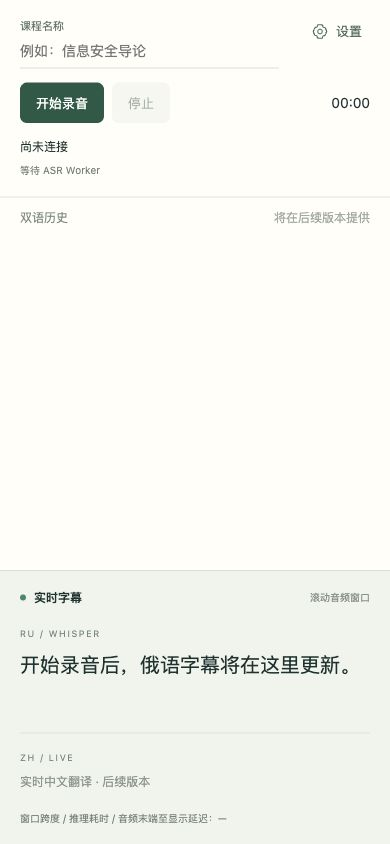
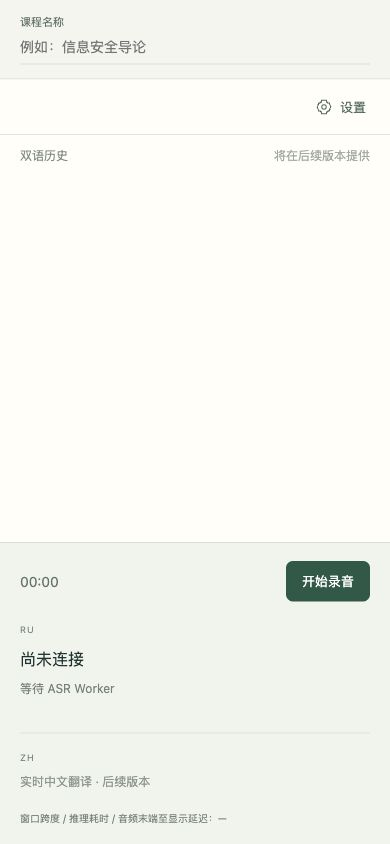
feat: simplify recording toolbar and connection placeholders

diff --git a/apps/web/app.js b/apps/web/app.js
@@ -5,7 +5,9 @@ let sent = [], stopTimer, startTimer, flushResolve;
 $('settings-open').onclick = () => $('settings').showModal();
 const errors = {WORKER_OFFLINE:'ASR Worker 未上线，请启动 Worker 后重试。',WORKER_DISCONNECTED:'ASR Worker 已断开，录音已停止，本次缺失音频不能续传。',AUDIO_DISCONTINUITY:'检测到音频采样缺口，录音已停止，请重新开始。',SESSION_BUSY:'已有课堂正在录音，请先结束当前会话。',INFERENCE_FAILED:'Whisper 推理失败，录音已停止。',WORKER_UNAVAILABLE_OR_SLOW:'Worker 不可用或处理积压，录音已停止。'};
 function send(type, payload = {}) { ws.send(JSON.stringify({protocol_version:'0.1',type,session_id:type === 'auth' ? '' : sessionId || '',message_id:crypto.randomUUID(),payload})); }
-function controls(active) { $('start').disabled = active; $('stop').disabled = !running || stopping; $('token').disabled = active; }
+function controls(active) { $('record').textContent = stopping ? '正在停止…' : running ? '停止录音' : active ? '连接中…' : '开始录音'; $('record').disabled = stopping || (active && !running); $('token').disabled = active; }
+function setConnected(online) { $('connection-state').hidden = online; $('ru').hidden = !online; }
+function updateWorker(online, worker = {}) { const label = online ? workerLabel(worker) : '等待 ASR Worker'; $('worker').textContent = label; $('worker-detail').textContent = label; setConnected(online); }
 async function cleanup() {
   running = false; clearTimeout(stopTimer); clearTimeout(startTimer); stream?.getTracks().forEach(t => t.stop());
   capture?.disconnect(); source?.disconnect();
@@ -14,15 +16,15 @@ async function cleanup() {
 }
 async function fail(message) {
   $('error').textContent = message; $('status').textContent = '已停止 · 发生错误';
-  await cleanup(); stopping = false; controls(false); ws?.close();
+  await cleanup(); stopping = false; updateWorker(false); controls(false); ws?.close();
 }
 function workerLabel(p) { return `${p.model || '未知模型'} · ${p.os || '未知系统'} · 后端：${p.backend || '未验证'}`; }
-$('start').onclick = async () => {
+async function startRecording() {
   if (!window.isSecureContext || !navigator.mediaDevices?.getUserMedia || !window.AudioWorkletNode) { await fail('录音需要 HTTPS（或 localhost）以及支持 AudioWorklet 的浏览器。'); return; }
   if (!$('token').value) { $('error').textContent = '请在设置中输入网关访问令牌。'; $('settings').showModal(); return; }
   controls(true); $('error').textContent = ''; $('status').textContent = '请求麦克风权限…';
   sessionId = crypto.randomUUID(); seq = 0; samples = 0; sent = []; stopping = false;
-  $('duration').textContent = '00:00'; $('ru').textContent = '等待俄语音频…'; $('latency').textContent = '等待第一条识别结果…';
+  $('duration').textContent = '00:00'; $('ru').textContent = '开始录音后，俄语字幕将在这里更新。'; $('latency').textContent = '等待第一条识别结果…';
   try {
     // Resume inside the user gesture before waiting for network events (Safari requirement).
     context = new AudioContext(); await context.resume();
@@ -37,10 +39,10 @@ $('start').onclick = async () => {
       try {
         const m = JSON.parse(data);
         if (m.protocol_version !== '0.1') throw new Error('协议版本不匹配');
-        if (m.type === 'auth.ok') { $('worker').textContent = m.payload.worker_online ? workerLabel(m.payload.worker) : '等待 ASR Worker'; send('session.start', {lesson_name:$('lesson').value}); }
+        if (m.type === 'auth.ok') { updateWorker(m.payload.worker_online, m.payload.worker); send('session.start', {lesson_name:$('lesson').value}); }
         else if (m.type === 'session.ready' && m.session_id === sessionId) {
           clearTimeout(startTimer);
-          $('worker').textContent = workerLabel(m.payload.worker);
+          updateWorker(true, m.payload.worker);
           const track = stream.getAudioTracks()[0];
           if(!track || track.readyState !== 'live') throw new Error('麦克风已中断，请重新开始。');
           source = context.createMediaStreamSource(stream); capture = new AudioWorkletNode(context, 'ru-capture');
@@ -63,16 +65,16 @@ $('start').onclick = async () => {
           const displayMs = anchor ? performance.now() - anchor.at : null;
           $('latency').textContent = `窗口 ${((m.payload.window_end_sample-m.payload.window_start_sample)/16000).toFixed(1)} s · 推理 ${m.payload.inference_ms.toFixed(0)} ms · 音频末端至显示 ${displayMs === null ? '—' : displayMs.toFixed(0)+' ms'}`;
         } else if(m.type === 'session.stopped' && m.session_id === sessionId) {
-          await cleanup(); stopping = false; $('status').textContent = '已停止 · 尾部识别完成'; controls(false); ws.close();
+          await cleanup(); stopping = false; $('status').textContent = '已停止 · 尾部识别完成'; updateWorker(false); controls(false); ws.close();
         } else if(m.type === 'session.error') await fail(errors[m.payload.code] || `服务错误：${m.payload.code}`);
-        else if(m.type === 'connection.status') $('worker').textContent = m.payload.worker_online ? workerLabel(m.payload.worker) : 'ASR Worker 离线';
+        else if(m.type === 'connection.status') updateWorker(m.payload.worker_online, m.payload.worker);
       } catch(e) { await fail(e.message || '无法处理服务端消息'); }
     };
     ws.onclose = event => { if(ws === socket && (running || stopping || context)) void fail(event.code === 1008 ? '认证失败，请检查访问令牌。' : '网关连接已断开，录音已停止。v0.1 不支持断网续传。'); };
     ws.onerror = () => { if(ws === socket) void fail('无法连接网关，请检查网络与 HTTPS/WSS 配置。'); };
   } catch(e) { await fail(e.name === 'NotAllowedError' ? '麦克风权限被拒绝，请在浏览器设置中允许访问后重试。' : `无法开始录音：${e.message}`); }
-};
-$('stop').onclick = async () => {
+}
+async function stopRecording() {
   if(!running || stopping) return;
   stopping = true; controls(true); $('status').textContent = '正在停止并识别尾部…';
   try {
@@ -80,5 +82,9 @@ $('stop').onclick = async () => {
     await cleanup(); send('session.stop');
     stopTimer = setTimeout(() => void fail('尾部识别超时，连接已关闭。'),70000);
   } catch(e) { await fail(e.message); }
+}
+$('record').onclick = async () => {
+  if ($('record').disabled || stopping) return;
+  if (running) await stopRecording(); else await startRecording();
 };
 window.addEventListener('pagehide', () => { stream?.getTracks().forEach(t => t.stop()); ws?.close(); });

diff --git a/apps/web/index.html b/apps/web/index.html
@@ -1,8 +1,8 @@
 <!doctype html>
 <html lang="zh-CN"><head><meta charset="utf-8"><meta name="viewport" content="width=device-width,initial-scale=1"><title>RU-Class · v0.1</title><link rel="stylesheet" href="/style.css"></head>
 <body>
-<main><section class="notes"><span class="eyebrow">课堂工作区</span><h1>留给思考的空间。</h1><p>笔记区域预留</p><small>当前版本提供右侧俄语实时字幕。</small></section>
-<section class="transcription" aria-label="课堂转写"><div class="controls"><div class="control-heading"><label>课程名称<input id="lesson" maxlength="120" placeholder="例如：信息安全导论"></label><button id="settings-open" class="settings-button" type="button" aria-label="设置" aria-haspopup="dialog"><svg viewBox="0 0 24 24" width="18" height="18" fill="none" stroke="currentColor" stroke-width="1.5" aria-hidden="true"><path d="M9 3h6l1 3 3 1 2 5-2 5-3 1-1 3H9l-1-3-3-1-2-5 2-5 3-1z"/><circle cx="12" cy="12" r="3"/></svg><span>设置</span></button></div><div class="actions"><button id="start">开始录音</button><button id="stop" disabled>停止</button><output id="duration">00:00</output></div><p id="status" role="status">尚未连接</p><p id="error" role="alert"></p><small id="worker">等待 ASR Worker</small></div>
+<main><section class="notes"><div class="workspace-top"><label>课程名称<input id="lesson" maxlength="120" placeholder="例如：信息安全导论"></label></div><div class="notes-placeholder"><span class="eyebrow">课堂工作区</span><h1>留给思考的空间。</h1><p>笔记区域预留</p><small>当前版本提供右侧俄语实时字幕。</small></div></section>
+<section class="transcription" aria-label="课堂转写"><div class="controls"><div class="control-heading"><button id="settings-open" class="settings-button" type="button" aria-label="设置" aria-haspopup="dialog"><svg viewBox="0 0 24 24" width="18" height="18" fill="none" stroke="currentColor" stroke-width="1.5" aria-hidden="true"><path d="M9 3h6l1 3 3 1 2 5-2 5-3 1-1 3H9l-1-3-3-1-2-5 2-5 3-1z"/><circle cx="12" cy="12" r="3"/></svg><span>设置</span></button></div></div>
 <section class="history"><div class="history-title"><span>俄语</span><span>中文</span></div><div class="empty"><span>双语历史</span><p>将在后续版本提供</p></div></section>
-<section class="live"><div class="live-heading"><span class="dot"></span>实时字幕 <small>滚动音频窗口</small></div><div class="ru"><span class="label">RU / WHISPER</span><p id="ru" lang="ru" aria-live="polite">开始录音后，俄语字幕将在这里更新。</p></div><div class="zh"><span class="label">ZH / LIVE</span><p>实时中文翻译 · 后续版本</p></div><small id="latency">窗口跨度 / 推理耗时 / 音频末端至显示延迟：—</small></section>
-</section></main><dialog id="settings" aria-labelledby="settings-title"><div class="settings-heading"><h2 id="settings-title">设置</h2><form method="dialog"><button class="close-button" aria-label="关闭设置">×</button></form></div><label>网关访问令牌<input id="token" type="password" autocomplete="off" placeholder="输入服务端配置的访问令牌"></label><p class="settings-help">用于连接课堂网关，仅保留在当前页面内存中。</p><div class="service-settings"><h3>模型服务规划</h3><div><span>语音识别</span><small>本地 Whisper · 无需模型 API 密钥</small></div><div><span>多模态模型</span><small>后续版本 · 服务端独立配置</small></div><div><span>语言模型</span><small>后续版本 · 服务端独立配置</small></div></div></dialog><script type="module" src="/app.js"></script></body></html>
+<section class="live"><div class="live-toolbar"><output id="duration" aria-label="录音时长">00:00</output><button id="record" type="button">开始录音</button></div><div class="ru"><span class="label">RU</span><div id="connection-state" role="status"><p id="status">尚未连接</p><small id="worker">等待 ASR Worker</small></div><p id="ru" lang="ru" aria-live="polite" hidden>开始录音后，俄语字幕将在这里更新。</p></div><p id="error" role="alert"></p><div class="zh"><span class="label">ZH</span><p>实时中文翻译 · 后续版本</p></div><small id="latency">窗口跨度 / 推理耗时 / 音频末端至显示延迟：—</small></section>
+</section></main><dialog id="settings" aria-labelledby="settings-title"><div class="settings-heading"><h2 id="settings-title">设置</h2><form method="dialog"><button class="close-button" aria-label="关闭设置">×</button></form></div><label>网关访问令牌<input id="token" type="password" autocomplete="off" placeholder="输入服务端配置的访问令牌"></label><p class="settings-help">用于连接课堂网关，仅保留在当前页面内存中。</p><p id="worker-detail" class="settings-help">等待 ASR Worker</p><div class="service-settings"><h3>模型服务规划</h3><div><span>语音识别</span><small>本地 Whisper · 无需模型 API 密钥</small></div><div><span>多模态模型</span><small>后续版本 · 服务端独立配置</small></div><div><span>语言模型</span><small>后续版本 · 服务端独立配置</small></div></div></dialog><script type="module" src="/app.js"></script></body></html>

diff --git a/tests/browser-errors.test.ts b/tests/browser-errors.test.ts
@@ -9,10 +9,10 @@ let closed=0;
 Object.defineProperty(globalThis,'navigator',{value:{mediaDevices:{getUserMedia:async()=>{throw new DOMException('Permission denied','NotAllowedError');}}},configurable:true});
 await import('../apps/web/app.js' as string);
 test('microphone permission refusal is visible and closes AudioContext',async()=>{
-  await get('start').onclick();assert.match(get('error').textContent,/麦克风权限被拒绝/);assert.equal(get('start').disabled,false);assert.equal(get('stop').disabled,true);assert.equal(closed,1);
+  await get('record').onclick();assert.match(get('error').textContent,/麦克风权限被拒绝/);assert.equal(get('record').disabled,false);assert.equal(get('record').textContent,'开始录音');assert.equal(closed,1);
 });
 test('insecure context reports the HTTPS requirement before recording',async()=>{
-  (globalThis as any).window.isSecureContext=false;await get('start').onclick();assert.match(get('error').textContent,/HTTPS/);assert.equal(get('start').disabled,false);
+  (globalThis as any).window.isSecureContext=false;await get('record').onclick();assert.match(get('error').textContent,/HTTPS/);assert.equal(get('record').disabled,false);
 });
 
 let socket:any,worklet:any,track:any;
@@ -26,24 +26,24 @@ function captureEnvironment() {
   (globalThis as any).WebSocket=class {static OPEN=1;readyState=1;bufferedAmount=0;sent:any[]=[];onmessage:any;onopen:any;onclose:any;constructor(){socket=this;}send(value:any){this.sent.push(value);}close(){this.readyState=3;this.onclose?.({code:1000});}};
 }
 async function readySession(){
-  await get('start').onclick();socket.onopen();await socket.onmessage({data:JSON.stringify({protocol_version:'0.1',type:'auth.ok',payload:{worker_online:true,worker:{model:'SIMULATED_TEST'}}})});
+  await get('record').onclick();socket.onopen();await socket.onmessage({data:JSON.stringify({protocol_version:'0.1',type:'auth.ok',payload:{worker_online:true,worker:{model:'SIMULATED_TEST'}}})});
   const start=JSON.parse(socket.sent.at(-1));
   await socket.onmessage({data:JSON.stringify({protocol_version:'0.1',type:'session.ready',session_id:start.session_id,payload:{worker:{model:'SIMULATED_TEST',os:'test',backend:'mock'}}})});
-  assert.equal(get('stop').disabled,false);return start.session_id;
+  assert.equal(get('record').disabled,false);assert.equal(get('record').textContent,'停止录音');assert.equal(get('ru').hidden,false);assert.equal(get('connection-state').hidden,true);assert.match(get('ru').textContent,/开始录音后/);return start.session_id;
 }
 test('shipped browser lifecycle sends indexed audio and stops capture before final completion',async()=>{
   captureEnvironment();const id=await readySession();
   for(let i=0;i<5;i++)worklet.port.onmessage({data:{type:'audio',samples:new Float32Array(3200),sourceRate:48000}});
   const frames=socket.sent.filter((m:any)=>m instanceof ArrayBuffer);assert.equal(frames.length,5);assert.equal(get('duration').textContent,'00:01');
   const {decodeAudio}=await import('../apps/server/src/protocol.js');const last=decodeAudio(Buffer.from(frames.at(-1)));assert.equal(last.header.payload.start_sample,12800);assert.equal(last.header.session_id,id);
-  await get('stop').onclick();assert.equal(track.stopped,true);assert.equal(JSON.parse(socket.sent.at(-1)).type,'session.stop');
+  await get('record').onclick();assert.equal(track.stopped,true);assert.equal(JSON.parse(socket.sent.at(-1)).type,'session.stop');
   await socket.onmessage({data:JSON.stringify({protocol_version:'0.1',type:'session.stopped',session_id:id,payload:{}})});
-  assert.match(get('status').textContent,/尾部识别完成/);assert.equal(get('start').disabled,false);
+  assert.match(get('status').textContent,/尾部识别完成/);assert.equal(get('record').disabled,false);assert.equal(get('record').textContent,'开始录音');assert.equal(get('ru').hidden,true);assert.equal(get('connection-state').hidden,false);
 });
 test('gateway disconnection and Worker failure visibly stop browser capture',async()=>{
   captureEnvironment();await readySession();socket.onclose({code:1006});await new Promise(r=>setImmediate(r));assert.equal(track.stopped,true);assert.match(get('error').textContent,/网关连接已断开/);
   captureEnvironment();await readySession();await socket.onmessage({data:JSON.stringify({protocol_version:'0.1',type:'session.error',payload:{code:'WORKER_DISCONNECTED'}})});assert.equal(track.stopped,true);assert.match(get('error').textContent,/ASR Worker 已断开/);
 });
 test('muted microphone is surfaced as interruption, never fake continued recording',async()=>{
-  captureEnvironment();await readySession();track.onmute();await new Promise(r=>setImmediate(r));assert.equal(track.stopped,true);assert.match(get('error').textContent,/麦克风输入暂停/);assert.equal(get('start').disabled,false);
+  captureEnvironment();await readySession();track.onmute();await new Promise(r=>setImmediate(r));assert.equal(track.stopped,true);assert.match(get('error').textContent,/麦克风输入暂停/);assert.equal(get('record').disabled,false);
 });

diff --git a/apps/web/style.css b/apps/web/style.css
@@ -10,3 +10,8 @@ button:focus-visible,input:focus-visible{outline:2px solid #4e9475}
 dialog{width:min(440px,calc(100% - 32px));max-height:calc(100dvh - 32px);overflow:auto;border:1px solid #d8dfd7;border-radius:14px;padding:24px;color:#183330;background:#fffef9;box-shadow:0 24px 80px #18333026}dialog::backdrop{background:#18333040}.settings-heading{display:flex;align-items:center;justify-content:space-between;margin-bottom:24px}.settings-heading h2{font-size:20px;font-weight:500;margin:0}.close-button{background:transparent;color:#60746a;padding:4px 10px;font-size:25px}.settings-help{font-size:11px;line-height:1.7;color:#829084;margin:-4px 0 24px}.service-settings{border-top:1px solid #e0e5dc;padding-top:20px}.service-settings h3{font-size:12px;font-weight:500;margin:0 0 16px}.service-settings>div{display:flex;justify-content:space-between;gap:16px;margin:14px 0;font-size:12px}.service-settings small{font-size:10px;color:#829084;text-align:right}
 @media(max-width:760px){.notes{display:none}main{grid-template-columns:minmax(0,1fr)}.transcription{border-left:0}.controls{padding:18px 20px}.history-title{display:none}.empty{display:flex;justify-content:space-between;align-items:center;padding:12px 20px}.empty p{margin:0}.empty span{font-size:12px}.live{padding:18px 20px}.live-heading{margin-bottom:16px}}
 @media(max-height:600px){.controls{padding:12px 20px}.control-heading label{margin-bottom:8px}#status{margin-top:8px}.live{max-height:65%;padding:12px 20px}.live-heading{margin-bottom:8px}.ru p{min-height:28px;margin:4px 0 10px;font-size:18px}.zh{padding-top:6px}.zh p{margin:4px 0 8px}.empty{padding:12px}.history-title{padding:8px 20px}}
+
+/* Single recording control and connection-aware caption placeholder. */
+[hidden]{display:none!important}.notes{padding:0}.workspace-top{padding:24px 48px;border-bottom:1px solid #d8dfd7;background:#f5f5ef}.workspace-top label{margin:0}.notes-placeholder{padding:40px 48px}.controls{padding:20px 24px;display:flex;justify-content:flex-end}.control-heading{width:auto}.settings-button{margin:0}.live-toolbar{display:flex;align-items:center;justify-content:space-between;gap:16px;margin-bottom:20px;flex:none}.live-toolbar output{margin:0;color:#60746a}.live-toolbar button{margin-left:auto}#connection-state{padding:10px 0 22px;min-height:96px}#connection-state #status{font-size:16px;line-height:1.5;min-height:0;max-height:none;overflow:visible;margin:0 0 8px}#connection-state #worker{font-size:12px}#error:empty{display:none}#error{flex:none;margin:0 0 12px}.live .label{letter-spacing:1px}
+@media(max-width:760px){main{grid-template-rows:auto minmax(0,1fr)}.notes{display:block;background:#f5f5ef}.notes-placeholder{display:none}.workspace-top{padding:14px 20px}.controls{padding:10px 16px}.live-toolbar{margin-bottom:16px}}
+@media(max-height:600px){.workspace-top{padding:12px 24px}.notes-placeholder{padding:24px}.controls{padding:8px 16px}.live-toolbar{margin-bottom:8px}.live-toolbar button{padding:8px 12px}#connection-state{min-height:64px;padding:6px 0 12px}#connection-state #status{font-size:14px;margin-bottom:4px}}

diff --git a/docs/development-log.md b/docs/development-log.md
@@ -33,3 +33,7 @@ Built official whisper.cpp 1.9.5-dev at 0c7be696371069e0baa2515ed7aa08d5a5473aa6
 Changed desktop layout to 1:1 and fixed 100dvh with no document scrolling. Removed visible header/footer; recording limitations remain documented. Added an accessible native Settings dialog, moving the existing gateway token there while preserving page-memory-only handling and recording-time input locking. Three model-provider planning states are read-only; no future credentials or model integrations were added. See credentials-plan.md.
 
 UI validation: main regression 12/12 passed; TypeScript and build passed. Actual browser measured desktop 1366×900 with two 683×900 columns and document/body height 900; narrow 390×844 had document/body height 844 and live panel ending at 844. Short landscape 900×400 had document height 400 with Settings open; dialog stayed within viewport. Verified Settings open/close and missing-token auto-open. No console warnings/errors observed. No audio/inference code changed or performance benchmark repeated. New clean desktop/narrow/settings screenshots are retained in main docs/screenshots.
+
+### Compact caption controls and course placement (2026-10-16)
+
+Moved course name above the left workspace and kept it available on narrow screens. Removed the live heading and engine suffixes; added a left timer/right single recording control. Initial disconnected connection/Worker messages now occupy the RU placeholder position; the ready message is revealed only for an authenticated available Worker. Stop/error paths restore a visible connection state. Worker diagnostics remain in Settings. Updated lifecycle assertions verify one-button start/stop and connected/offline visibility. Regression 12/12, typecheck and build passed; desktop/narrow browser layout and empty-token Settings flow passed. See ui-recording-controls-v0.1.md.

diff --git a/docs/ui-recording-controls-v0.1.md b/docs/ui-recording-controls-v0.1.md
@@ -1,0 +1,10 @@
+# Compact caption controls validation (2026-10-16)
+
+- One visible recording action in the live panel, start/stop routed through the existing capture/flush lifecycle. Connecting and stopping disable repeated activation.
+- RU/ZH labels have no Whisper/Live suffix. No live-caption or rolling-window heading is rendered.
+- Initial disconnected state renders connection status and waiting Worker text; the ready placeholder is hidden. Authenticated Worker-ready state and return to disconnected/stopped state are covered by the actual shipped JS lifecycle tests with explicit browser stubs.
+- Course name is in the left workspace; narrow screens retain its compact row.
+- Actual browser: 1366x900, equal desktop halves, document height 900; one recording button, time x=708 and action x=1258. Narrow 390x844: document height 844, course input visible, recording toolbar inside viewport. Settings prompt from a blank token works.
+- ASR_REPO=../ru-class-asr npm test: 12/12 passed. npm run typecheck and npm run build passed.
+- Browser debugger synchronization failed on the old tab; a fresh tab in the same browser recovered and was used for the checks above. No physical microphone/model performance claim is added by these UI checks.
+- No wire protocol, inference adapter, model service or permanent storage feature was added. Existing M1 benchmark evidence is retained independently.

diff --git a/PROJECT_SPEC.md b/PROJECT_SPEC.md
@@ -320,3 +320,7 @@ lesson-YYYY-MM-DD.zip
 - 移除可见顶栏品牌/版本/副标题及底栏提示，版本限制继续保留在文档中。
 - 右上角增加设置按钮，将网关访问令牌移入设置弹窗，仅保存在页面内存。
 - 按语音识别、多模态、语言模型三类规划服务配置；本轮只展示规划状态，不开发新模型接入。本地 Whisper 不需要模型 API 密钥。未来模型密钥保存在服务端，与 CLIENT_TOKEN / WORKER_TOKEN 应用认证分开。
+
+## 18. Recording controls and caption state revision (2026-10-16)
+
+The user's latest UI direction supersedes earlier control placement: course name belongs at the top of the left workspace (a compact top row on narrow screens). Remove the caption heading/window caption and show only RU/ZH labels. The live panel toolbar has time on the left and one start/stop recording button on the right. The RU area shows connection status while disconnected and the start-recording placeholder only after an authenticated Worker-ready connection; errors and stopped states remain explicit. Settings stays at top right and holds the gateway token plus Worker diagnostics. No new version or model integration is authorized by this UI revision.

diff --git a/docs/decisions.md b/docs/decisions.md
@@ -14,3 +14,5 @@
 - User implementation clarification (2026-10-16): use the current M1 / 8 GB machine for development and real engine integration now. Mac mini M4 formal acceptance is intentionally deferred; it does not block M1 development. Record M1 results separately and retain the v0.1-only scope.
 
 - UI clarification (2026-10-16): fixed viewport with no document scrolling; equal desktop columns; visible top/bottom bars removed. Gateway access moves into a top-right native Settings dialog. Content can scroll only inside its own panel. credentials-plan.md reserves three model configuration groups without adding model integrations.
+
+- Caption controls revision (2026-10-16): one recording button changes between start, connecting, stop and stopping states; time is on the left of the live toolbar. Course name moves to the left workspace; on narrow screens its compact row remains visible. Offline RU displays connection/Worker status instead of the ready placeholder. Worker diagnostics also remain available in Settings. Browser authentication still happens through the existing recording lifecycle; no background reconnect is introduced.

diff --git a/docs/architecture.md b/docs/architecture.md
@@ -18,7 +18,7 @@ flowchart LR
 | --- | --- |
 | ru-class / `apps/web/audio.js` | Portable streaming resampler and binary PCM encoder; original-to-16 kHz sample mapping |
 | ru-class / `capture-worklet.js` | Mix channels, retain filter context, send 200 ms frames, flush tail |
-| ru-class / `app.js` | User permission, session lifecycle, bounded socket backlog, capture errors, replacement subtitles and local-clock latency estimate |
+| ru-class / `app.js` | Single start/stop control, connection-aware RU placeholder, user permission, session lifecycle, bounded socket backlog, capture errors, replacement subtitles and local-clock latency estimate |
 | ru-class / `index.html`, `style.css` | 1:1 fullscreen viewport layout, narrow-screen layout, truthful later-version placeholders |
 | ru-class / `apps/server/src/gateway.ts` | Same-origin HTTP assets, independent token authentication, one-session ownership, metadata validation, WS routing and liveness |
 | both / `protocol.ts` | Version 0.1 types, binary encoding/validation, strict sequence and sample continuity |

diff --git a/docs/acceptance-v0.1.md b/docs/acceptance-v0.1.md
@@ -58,3 +58,5 @@ Implementation source baselines: main `d07280d4a8f51ba93907388f90be1ac7f0426a4c`
 UI revision 2026-10-16: fixed viewport, equal desktop columns, no document scrolling/top/bottom bars; gateway token moved into Settings. This UI change leaves audio and inference protocol unchanged. Layout checks are recorded in the development log.
 
 UI revision checks passed: 1366×900, 390×844 and 900×400 document heights matched viewport heights. Desktop widths were 683/683. Settings open/close and missing-token redirect were checked in the actual browser; main regression 12/12, typecheck and build passed. No new model integration or key storage was added.
+
+Compact-controls revision 2026-10-16: left workspace course input, one recording button/right with timer/left, RU/ZH-only labels and connection-aware RU placeholder. Main regression 12/12, typecheck/build and desktop/narrow visual checks passed; source lifecycle state tests use explicit browser stubs. See ui-recording-controls-v0.1.md.

diff --git a/README.md b/README.md
@@ -49,3 +49,5 @@ npm run build
 M1 实测方法、模型版本和延迟数据见 [M1 development](docs/m1-development.md)，M4 后期流程见 [hardware validation](docs/hardware-validation.md)。
 
 界面固定满屏，桌面左右各半，无顶栏/底栏；访问令牌从右上角「设置」填写。模型凭证规划见 [credentials plan](docs/credentials-plan.md)。
+
+课程名称位于左侧工作区顶部，窄屏保留顶部输入行。字幕区仅显示 RU / ZH 标签；左侧为计时，右侧一个按钮切换开始/停止。未连接时 RU 区显示连接状态，连接就绪后才显示录音提示；Worker 诊断信息可从设置查看。
